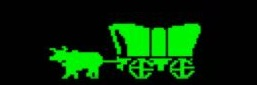
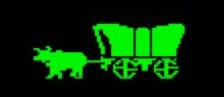
amended question, amended death section

Changed region(s): [[0.125, 0.2118, 0.8438, 0.9412]]

diff --git a/index.html b/index.html
@@ -41,11 +41,9 @@
 
       <!-- Death Section -->
       <section class="container hidden" id="death">
-        <p id="oregon"></p>
-        <img src="assets/oregon.JPG" alt="oregon-trail" height="30" /><br />
-        <!-- <img scr="assets/oregon.jpg"> -->
-        <p>You have died of <span id="causeOfDeath">reasons</span></p>
-        <img src="assets/oregon.JPG" alt="oregon-trail" height="30" /><br />
+        <img src="assets/oregon.JPG" id="ox" class="oregon" alt="oregon-trail" height="100" /><br />
+        <p class="oregon">You have died of <span id="causeOfDeath">reasons</span></p>
+        <img src="assets/oregon.JPG" id="ox" class="oregon" alt="oregon-trail" height="100" /><br />
       </section>
 
       <!--  Question Section-->

diff --git a/script.js b/script.js
@@ -315,8 +315,8 @@ const questionArray = [
     answers: [
       { text: "North Daktota", isCorrect: false },
       { text: "the U.S.A.", isCorrect: false },
-      { text: "China", isCorrect: true },
-      { text: "Japan", isCorrect: false },
+      { text: "the U.S.S.R.", isCorrect: true },
+      { text: "Space", isCorrect: false },
     ],
   },
   {

diff --git a/assets/style.css b/assets/style.css
@@ -24,6 +24,10 @@ body {
     border-bottom-color: chartreuse;
 } 
 
+ #death {
+    vertical-align: middle;
+}
+
 #hud {
     justify-content: space-between;
 }
